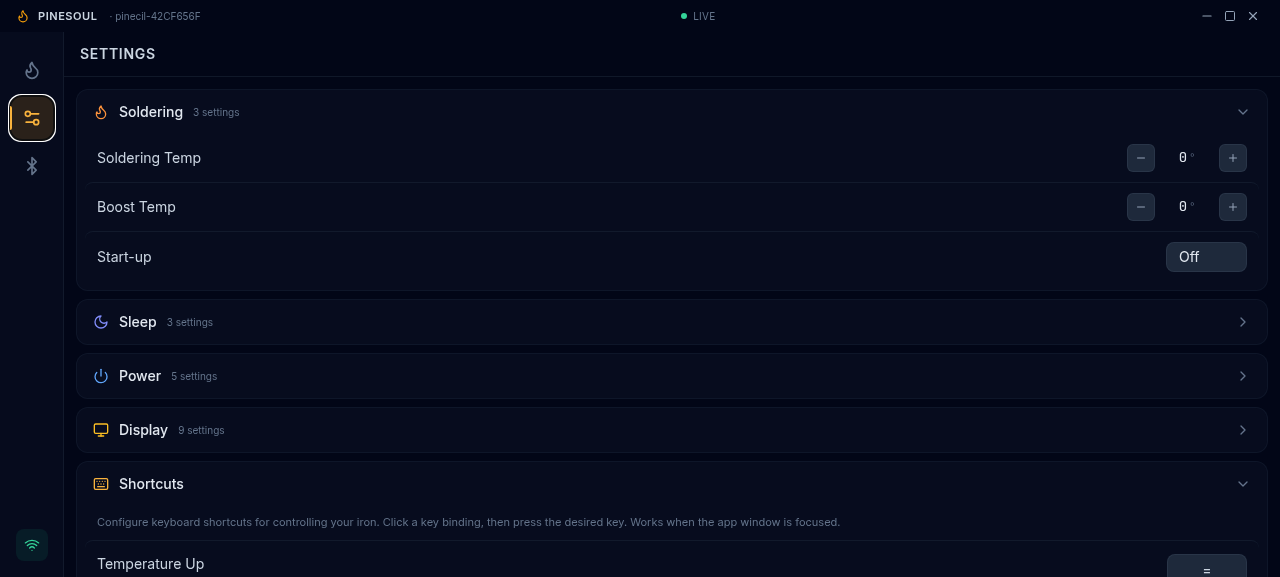
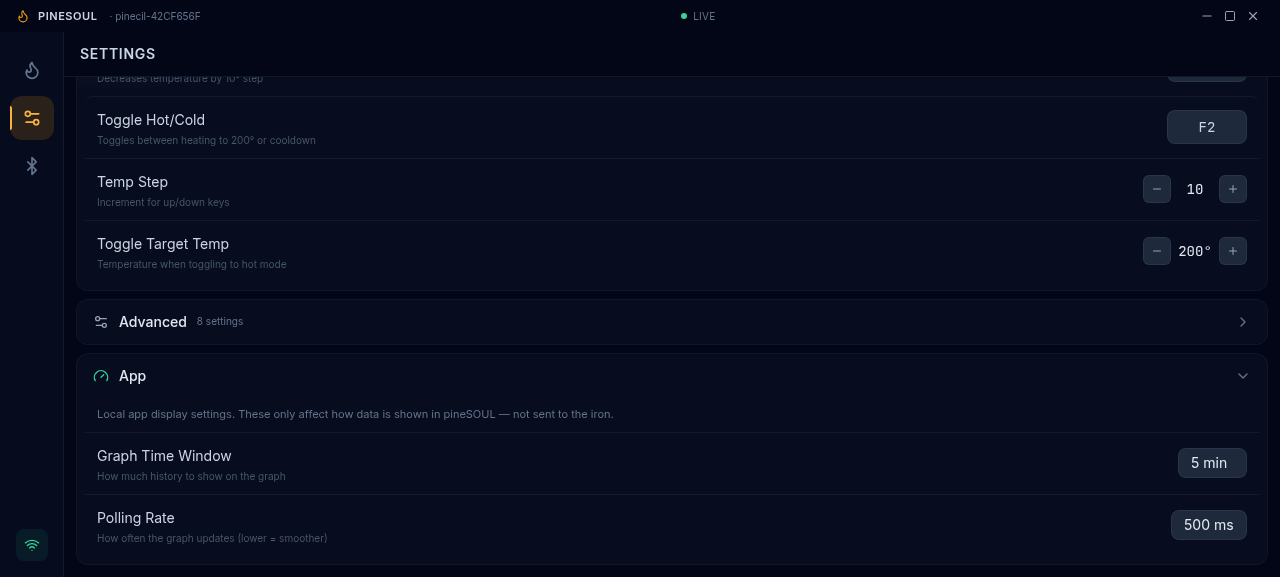
fix: bug audit — 6 bugs squashed
🐛 build/icon.png tracked by .gitignore (was excluded), proper 512x512 icon
🐛 stale screenshot-*.png deleted from project root
🐛 .deb naming now consistent: pineSOUL-1.0.0.deb (was pinesoul...)
🐛 protocol.js DataView buffer offset bug on Node.js Buffer
🐛 duplicate toast auto-dismissals (hook + component fighting)
🐛 HandleTemp used raw °C, ignored TemperatureUnit setting
🐛 SettingsPanel App group never rendered (isHotkeyGroup missed 'app')

Also fixed: App settings label no longer shows '0 settings'

diff --git a/src/components/SettingsPanel.jsx b/src/components/SettingsPanel.jsx
@@ -155,16 +155,17 @@ function SettingsGroup({ groupKey, settings, onChange, hotkeyConfig, onUpdateHot
   if (!group) return null;
   const Icon = group.icon;
 
+  const isSpecialGroup = groupKey === 'hotkeys' || groupKey === 'app';
   const isHotkeyGroup = groupKey === 'hotkeys';
   const isAppGroup = groupKey === 'app';
 
-  const groupSettings = !isHotkeyGroup
+  const groupSettings = !isSpecialGroup
     ? Object.entries(SETTING_META)
         .filter(([_, m]) => m.group === groupKey && !HIDDEN_SETTINGS.has(_))
         .map(([name, meta]) => ({ name, meta }))
     : [];
 
-  if (groupSettings.length === 0 && !isHotkeyGroup) return null;
+  if (groupSettings.length === 0 && !isSpecialGroup) return null;
 
   return (
     <div className="glass-subtle overflow-hidden">
@@ -175,7 +176,7 @@ function SettingsGroup({ groupKey, settings, onChange, hotkeyConfig, onUpdateHot
         <div className="flex items-center gap-2.5">
           <Icon className={`w-4 h-4 ${group.color}`} />
           <span className="text-sm font-medium text-iron-200">{group.label}</span>
-          {!isHotkeyGroup && (
+          {!isSpecialGroup && (
             <span className="text-[10px] text-iron-500">{groupSettings.length} settings</span>
           )}
         </div>

diff --git a/src/hooks/usePinecil.js b/src/hooks/usePinecil.js
@@ -80,13 +80,10 @@ export function usePinecil({ mock = false, pollingRate = 500 } = {}) {
   const historyRef = useRef([]);
   const listenersRef = useRef([]);
 
-  // Toast helper
+  // Toast helper — just adds, Toast component handles auto-dismiss
   const addToast = useCallback((message, type = 'error') => {
     const id = Date.now() + Math.random();
     setToasts(prev => [...prev, { id, message, type }]);
-    setTimeout(() => {
-      setToasts(prev => prev.filter(t => t.id !== id));
-    }, 3000);
   }, []);
 
   const removeToast = useCallback((id) => {
@@ -354,8 +351,12 @@ export function usePinecil({ mock = false, pollingRate = 500 } = {}) {
   }, []);
 
   const formatHandleTemp = useCallback((raw) => {
-    return (raw / 10).toFixed(0);
-  }, []);
+    const tempC = (raw / 10);
+    if (settings.TemperatureUnit === 1) {
+      return Math.round(tempC * 9/5 + 32);
+    }
+    return Math.round(tempC);
+  }, [settings.TemperatureUnit]);
 
   const formatTipRes = useCallback((raw) => {
     if (!raw || raw === 0) return '--';

diff --git a/electron/ble/protocol.js b/electron/ble/protocol.js
@@ -49,7 +49,10 @@ class PinecilProtocol {
   parseLiveData(buffer) {
     if (!buffer || buffer.length < 56) return null;
 
-    const view = new DataView(buffer.buffer || new Uint8Array(buffer));
+    // Handle Node.js Buffer: create DataView from the actual buffer content,
+    // not the underlying ArrayBuffer (which may have offset/size mismatch)
+    const raw = new Uint8Array(buffer);
+    const view = new DataView(raw.buffer, raw.byteOffset, raw.byteLength);
     const values = {};
     const numValues = Math.floor(buffer.length / 4);
 
@@ -65,7 +68,8 @@ class PinecilProtocol {
    */
   parseSetting(buffer) {
     if (!buffer || buffer.length < 2) return null;
-    const view = new DataView(buffer.buffer || new Uint8Array(buffer));
+    const raw = new Uint8Array(buffer);
+    const view = new DataView(raw.buffer, raw.byteOffset, raw.byteLength);
     return view.getUint16(0, true); // little-endian uint16
   }
 
